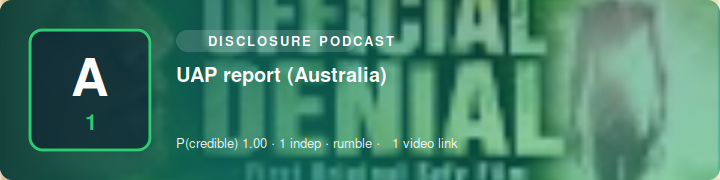
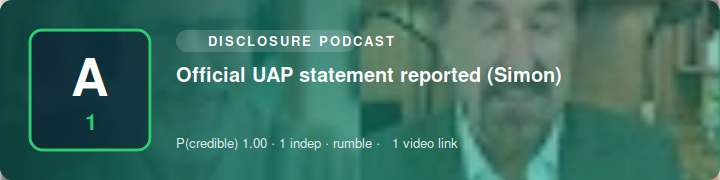
SITREP 2026-08-11 14:50 UTC

diff --git a/index.html b/index.html
@@ -1,1 +1,1 @@
-<!doctype html><meta charset=utf-8><title>Science Bob News — SITREP</title><style>body{font:16px/1.5 system-ui,sans-serif;max-width:760px;margin:2rem auto;padding:0 1rem;color:#111}h1{font-size:1.5rem}h2{margin-top:1.6rem;border-bottom:1px solid #ddd;padding-bottom:.2rem}ul{list-style:none;padding:0}li{margin:.9rem 0}.hl{font-weight:600}.meta{color:#555;font-size:.85rem}.src{font-size:.85rem}.vid{font-size:.85rem;margin-top:.15rem}.card{display:block;max-width:100%;height:auto;border-radius:8px;margin:.4rem 0 .5rem}.upd{background:#fde68a;padding:0 .3rem;border-radius:.2rem;font-size:.75rem}.sub{color:#777;font-size:.85rem}footer{color:#777;font-size:.8rem;margin-top:2rem;border-top:1px solid #ddd;padding-top:.6rem}</style><h1>🛸 Science Bob News</h1><div class="sub">UAP / UFO / USO SITREP · updated 2026-08-11 14:40 UTC · automated</div><h2>Corroborated</h2><ul><li><i>No corroborated reports.</i></li></ul><h2>Developing / unconfirmed</h2><ul><li><img class="card" src="https://n4hy.github.io/sciencebobnews-site/card_d_1.svg" alt="" width="720" height="180"><div class="hl">UAP report (Arizona)</div><div class="meta">reliability <b>A1</b> · P(credible)=1.0 · 2 independent source(s) · mastodon</div><div class="src"><a href="https://mysterioustimes.co.uk/2026/08/09/the-travis-walton-hoax/">@kdraven@mysterioustimes.co.uk</a> · <a href="https://c.im/@raurquiz/117066708910947794">@raurquiz@c.im</a></div><div class="vid">📹 <a href="https://youtu.be/Bbm9le8oM64?si=u3GVy-fDW4rZMqYw">video</a></div></li><li><img class="card" src="https://n4hy.github.io/sciencebobnews-site/card_d_2.svg" alt="" width="720" height="180"><div class="hl">UAP report</div><div class="meta">reliability <b>A1</b> · P(credible)=1.0 · 1 independent source(s) · mastodon</div><div class="src"><a href="https://friendica.helvetet.eu/display/a7e70941-ada94dce-7a7a6cb70eceee45">@nyteknik@friendica.helvetet.eu</a></div></li><li><img class="card" src="https://n4hy.github.io/sciencebobnews-site/card_d_3.svg" alt="" width="720" height="180"><div class="hl">UAP report (Early)</div><div class="meta">reliability <b>A1</b> · P(credible)=1.0 · 1 independent source(s) · rumble</div><div class="src"><a href="https://www.youtube.com/watch?v=IyTeV6kko5A">@podcast</a></div><div class="vid">📹 <a href="https://www.youtube.com/watch?v=IyTeV6kko5A">video</a></div></li><li><img class="card" src="https://n4hy.github.io/sciencebobnews-site/card_d_4.svg" alt="" width="720" height="180"><div class="hl">UAP report (McMinnville)</div><div class="meta">reliability <b>A1</b> · P(credible)=1.0 · 1 independent source(s) · rumble</div><div class="src"><a href="https://www.youtube.com/watch?v=7OT6uJ0yzVY">@podcast</a></div><div class="vid">📹 <a href="https://www.youtube.com/watch?v=7OT6uJ0yzVY">video</a></div></li><li><img class="card" src="https://n4hy.github.io/sciencebobnews-site/card_d_5.svg" alt="" width="720" height="180"><div class="hl">UAP report (Australia)</div><div class="meta">reliability <b>A1</b> · P(credible)=1.0 · 1 independent source(s) · rumble</div><div class="src"><a href="https://www.youtube.com/watch?v=ZegQhxJrJGo">@podcast</a></div><div class="vid">📹 <a href="https://www.youtube.com/watch?v=ZegQhxJrJGo">video</a></div></li></ul><footer><b>Powered by Science Bob News.</b> Free to use with credit (see LICENSE). Headlines are factual restatements in the engine's own words; click sources for originals. Single-origin reposts collapse to one source; prosaic candidates flagged where offered.</footer>
+<!doctype html><meta charset=utf-8><title>Science Bob News — SITREP</title><style>body{font:16px/1.5 system-ui,sans-serif;max-width:760px;margin:2rem auto;padding:0 1rem;color:#111}h1{font-size:1.5rem}h2{margin-top:1.6rem;border-bottom:1px solid #ddd;padding-bottom:.2rem}ul{list-style:none;padding:0}li{margin:.9rem 0}.hl{font-weight:600}.meta{color:#555;font-size:.85rem}.src{font-size:.85rem}.vid{font-size:.85rem;margin-top:.15rem}.card{display:block;max-width:100%;height:auto;border-radius:8px;margin:.4rem 0 .5rem}.upd{background:#fde68a;padding:0 .3rem;border-radius:.2rem;font-size:.75rem}.sub{color:#777;font-size:.85rem}footer{color:#777;font-size:.8rem;margin-top:2rem;border-top:1px solid #ddd;padding-top:.6rem}</style><h1>🛸 Science Bob News</h1><div class="sub">UAP / UFO / USO SITREP · updated 2026-08-11 14:50 UTC · automated</div><h2>Corroborated</h2><ul><li><i>No corroborated reports.</i></li></ul><h2>Developing / unconfirmed</h2><ul><li><img class="card" src="https://n4hy.github.io/sciencebobnews-site/card_d_1.svg" alt="" width="720" height="180"><div class="hl">UAP report (Arizona)</div><div class="meta">reliability <b>A1</b> · P(credible)=1.0 · 2 independent source(s) · mastodon</div><div class="src"><a href="https://mysterioustimes.co.uk/2026/08/09/the-travis-walton-hoax/">@kdraven@mysterioustimes.co.uk</a> · <a href="https://c.im/@raurquiz/117066708910947794">@raurquiz@c.im</a></div><div class="vid">📹 <a href="https://youtu.be/Bbm9le8oM64?si=u3GVy-fDW4rZMqYw">video</a></div></li><li><img class="card" src="https://n4hy.github.io/sciencebobnews-site/card_d_2.svg" alt="" width="720" height="180"><div class="hl">UAP report</div><div class="meta">reliability <b>A1</b> · P(credible)=1.0 · 1 independent source(s) · mastodon</div><div class="src"><a href="https://friendica.helvetet.eu/display/a7e70941-ada94dce-7a7a6cb70eceee45">@nyteknik@friendica.helvetet.eu</a></div></li><li><img class="card" src="https://n4hy.github.io/sciencebobnews-site/card_d_3.svg" alt="" width="720" height="180"><div class="hl">UAP report (Australia)</div><div class="meta">reliability <b>A1</b> · P(credible)=1.0 · 1 independent source(s) · rumble</div><div class="src"><a href="https://www.youtube.com/watch?v=ZegQhxJrJGo">@podcast</a></div><div class="vid">📹 <a href="https://www.youtube.com/watch?v=ZegQhxJrJGo">video</a></div></li><li><img class="card" src="https://n4hy.github.io/sciencebobnews-site/card_d_4.svg" alt="" width="720" height="180"><div class="hl">Official UAP statement reported (Technology)</div><div class="meta">reliability <b>A1</b> · P(credible)=1.0 · 1 independent source(s) · rumble</div><div class="src"><a href="https://www.youtube.com/watch?v=A7t5jd2FDJ4">@podcast</a></div><div class="vid">📹 <a href="https://www.youtube.com/watch?v=A7t5jd2FDJ4">video</a></div></li><li><img class="card" src="https://n4hy.github.io/sciencebobnews-site/card_d_5.svg" alt="" width="720" height="180"><div class="hl">Official UAP statement reported (Simon)</div><div class="meta">reliability <b>A1</b> · P(credible)=1.0 · 1 independent source(s) · rumble</div><div class="src"><a href="https://www.youtube.com/watch?v=5CEjriSzF1g">@podcast</a></div><div class="vid">📹 <a href="https://www.youtube.com/watch?v=5CEjriSzF1g">video</a></div></li></ul><footer><b>Powered by Science Bob News.</b> Free to use with credit (see LICENSE). Headlines are factual restatements in the engine's own words; click sources for originals. Single-origin reposts collapse to one source; prosaic candidates flagged where offered.</footer>

diff --git a/sitrep.md b/sitrep.md
@@ -1,5 +1,5 @@
 # 🛸 Science Bob News — UAP / UFO / USO SITREP
-*Updated 2026-08-11 14:40 UTC · auto-generated · sources credited & linked · reliability ratings are automated, not editorial*
+*Updated 2026-08-11 14:50 UTC · auto-generated · sources credited & linked · reliability ratings are automated, not editorial*
 
 ## Corroborated
 _No corroborated reports this cycle._
@@ -15,20 +15,20 @@ _No corroborated reports this cycle._
 2. UAP report — reliability A1 · 1 source(s)  
    [@nyteknik@friendica.helvetet.eu](https://friendica.helvetet.eu/display/a7e70941-ada94dce-7a7a6cb70eceee45)
 
-![UAP report (Early)](https://n4hy.github.io/sciencebobnews-site/card_d_3.svg)
-3. UAP report (Early) — reliability A1 · 1 source(s)  
-   [@podcast](https://www.youtube.com/watch?v=IyTeV6kko5A)  
-   📹 [video](https://www.youtube.com/watch?v=IyTeV6kko5A)
-
-![UAP report (McMinnville)](https://n4hy.github.io/sciencebobnews-site/card_d_4.svg)
-4. UAP report (McMinnville) — reliability A1 · 1 source(s)  
-   [@podcast](https://www.youtube.com/watch?v=7OT6uJ0yzVY)  
-   📹 [video](https://www.youtube.com/watch?v=7OT6uJ0yzVY)
-
-![UAP report (Australia)](https://n4hy.github.io/sciencebobnews-site/card_d_5.svg)
-5. UAP report (Australia) — reliability A1 · 1 source(s)  
+![UAP report (Australia)](https://n4hy.github.io/sciencebobnews-site/card_d_3.svg)
+3. UAP report (Australia) — reliability A1 · 1 source(s)  
    [@podcast](https://www.youtube.com/watch?v=ZegQhxJrJGo)  
    📹 [video](https://www.youtube.com/watch?v=ZegQhxJrJGo)
+
+![Official UAP statement reported (Technology)](https://n4hy.github.io/sciencebobnews-site/card_d_4.svg)
+4. Official UAP statement reported (Technology) — reliability A1 · 1 source(s)  
+   [@podcast](https://www.youtube.com/watch?v=A7t5jd2FDJ4)  
+   📹 [video](https://www.youtube.com/watch?v=A7t5jd2FDJ4)
+
+![Official UAP statement reported (Simon)](https://n4hy.github.io/sciencebobnews-site/card_d_5.svg)
+5. Official UAP statement reported (Simon) — reliability A1 · 1 source(s)  
+   [@podcast](https://www.youtube.com/watch?v=5CEjriSzF1g)  
+   📹 [video](https://www.youtube.com/watch?v=5CEjriSzF1g)
 
 ---
 *Powered by Science Bob News. Free to use with credit (see LICENSE). Headlines are factual restatements in the engine's own words — click through to the linked sources for originals. Reposts of a single origin are collapsed to one source; candidate prosaic explanations are flagged where offered.*
